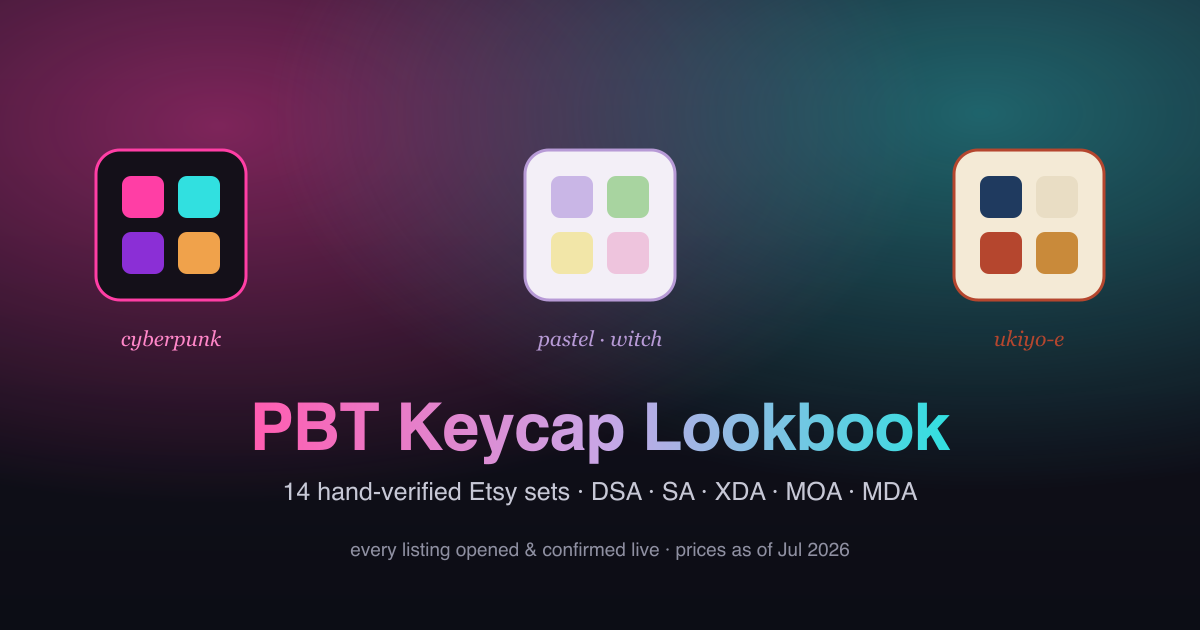
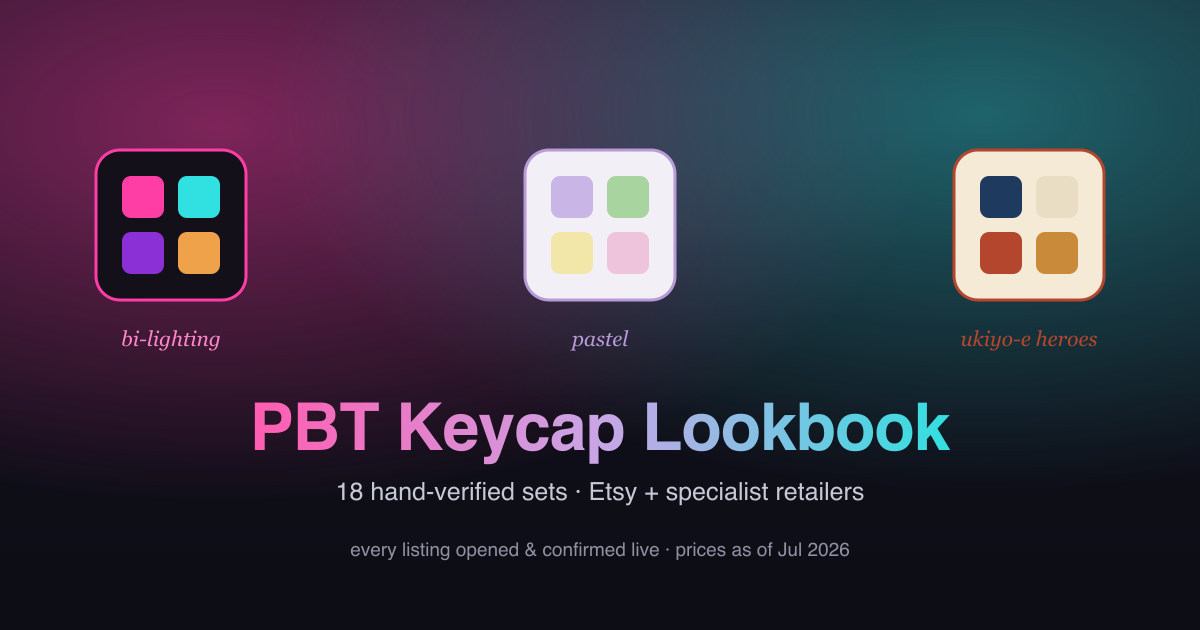
Round 2: re-point buckets to bi-lighting + Ukiyo-e Heroes game-IP; more YuniKeyCo
- Cyberpunk -> 'Bi-Lighting & Neon-Noir': lead with flat-profile violet/pink picks;
  Keysium Neon Abyss + Keychron Neon Night as pure-palette near-misses.
- Ukiyo-e -> 'Ukiyo-e Heroes': game-IP art (Mario/Pokemon/Kirby/Totoro) + woodblock
  (KAT Great Wave/Fuji/painting). Re-included QuantumCaps Pokemon.
- Pastel: added YuniKeyCo Rainbow Gradient (lavender's sibling), Sakura, Ocean;
  dropped Cinnamoroll/Marshmallow. Now 8.
- 18 sets total; source-aware near-miss links; regenerated OG.

diff --git a/index.html b/index.html
@@ -3,7 +3,7 @@
 <head>
 <meta charset="utf-8" />
 <meta name="viewport" content="width=device-width, initial-scale=1.0" />
-<title>PBT Keycap Lookbook — Cyberpunk · Pastel-Witch · Ukiyo-e</title>
+<title>PBT Keycap Lookbook — Bi-Lighting · Pastel · Ukiyo-e Heroes</title>
 <meta name="description" content="A curated Etsy lookbook of PBT, DSA/SA/XDA/MOA-family keycap sets in three aesthetics: cyberpunk / synthwave / Blade Runner, pastel / mintlodify / cottagecore-witch, and ukiyo-e woodblock. Every listing verified live, with prices, profiles, and materials." />
 <meta name="robots" content="index,follow" />
 
@@ -11,14 +11,14 @@
 
 <meta property="og:type" content="website" />
 <meta property="og:site_name" content="PBT Keycap Lookbook" />
-<meta property="og:title" content="PBT Keycap Lookbook — Cyberpunk · Pastel-Witch · Ukiyo-e" />
+<meta property="og:title" content="PBT Keycap Lookbook — Bi-Lighting · Pastel · Ukiyo-e Heroes" />
 <meta property="og:description" content="Curated Etsy PBT keycap sets (DSA/SA/XDA/MOA family) across three aesthetics. Every listing verified live with prices, profiles and materials." />
 <meta property="og:url" content="https://drewhoover.com/keycap-lookbook/" />
 <meta property="og:image" content="https://drewhoover.com/keycap-lookbook/og.png" />
 <meta property="og:image:width" content="1200" />
 <meta property="og:image:height" content="630" />
 <meta name="twitter:card" content="summary_large_image" />
-<meta name="twitter:title" content="PBT Keycap Lookbook — Cyberpunk · Pastel-Witch · Ukiyo-e" />
+<meta name="twitter:title" content="PBT Keycap Lookbook — Bi-Lighting · Pastel · Ukiyo-e Heroes" />
 <meta name="twitter:description" content="Curated Etsy PBT keycap sets across three aesthetics, every listing verified live." />
 <meta name="twitter:image" content="https://drewhoover.com/keycap-lookbook/og.png" />
 
@@ -195,9 +195,9 @@
     <p class="sub">A hand-verified shortlist of PBT keycap sets in the flat &amp; uniform profile family (DSA / SA / XDA / MOA / MDA / KAT), sorted into three aesthetics — sourced from Etsy <em>and</em> specialist keycap retailers. Every listing below was opened and confirmed live.</p>
     <div class="counts" id="counts"></div>
     <nav class="navjump">
-      <a class="j-cyber" href="#cyberpunk">◤ Cyberpunk / Synthwave</a>
+      <a class="j-cyber" href="#cyberpunk">◤ Cyberpunk / Bi-Lighting</a>
       <a class="j-pastel" href="#pastel">✿ Pastel / Witch</a>
-      <a class="j-ukiyo" href="#ukiyoe">波 Ukiyo-e</a>
+      <a class="j-ukiyo" href="#ukiyoe">波 Ukiyo-e Heroes</a>
     </nav>
   </div>
 </header>
@@ -208,7 +208,7 @@
     <ul>
       <li><b>Material:</b> PBT only — doubleshot or dye-sublimation. Anything ABS (or unstated) was dropped.</li>
       <li><b>Profile:</b> the flat / uniform / tall-sculpted family only — <code>DSA</code>, <code>SA</code>, <code>XDA</code>, <code>MOA</code>, <code>MDA</code>, <code>KAT</code>. Standard <code>Cherry</code>/<code>OEM</code> sculpts were excluded from the main picks (a few exceptional ones appear in the labelled “near-miss” rows). Profile is called out on every card.</li>
-      <li><b>Where from:</b> mostly Etsy, plus a few from specialist retailers (KeyCapUS, prototypist) where Etsy came up short. The button says where each one lives.</li>
+      <li><b>Where from:</b> Etsy plus specialist retailers (PopKeyCap, KeyArtisan, KeyCapUS, prototypist, Keysium…) where they had the better set. Each buy button says where that one lives.</li>
       <li><b>Design:</b> genuinely on-theme for its bucket — no generic “Japanese” or “gamer RGB” filler.</li>
       <li><b>Live check:</b> each listing was opened in a browser; dead, sold-out and “item unavailable” listings were removed.</li>
     </ul>
@@ -221,14 +221,14 @@
   <div class="wrap">
     <div class="sec-head">
       <div class="eyebrow">Bucket 01</div>
-      <h2>Cyberpunk · Synthwave · Blade Runner</h2>
-      <p>Neon-on-dark, hot magenta and electric cyan, orange-on-teal dystopia, outrun gradients. The hard truth of this bucket: tasteful neon-synthwave in a flat profile barely exists in PBT — the look lives almost entirely in Cherry-profile GMK-clones, which the rule excludes. What survives is small but honest: a Blade-Runner-orange gradient, a neon-purple/cyan set, a translucent-black SA set, and — going beyond Etsy — a genuinely good charcoal/violet XDA set from KeyCapUS. Two Cherry/backlit near-misses are shown below too.</p>
+      <h2>Cyberpunk · Bi-Lighting &amp; Neon-Noir</h2>
+      <p>The 2018 “bisexual lighting” wash — soft-but-saturated pink and magenta into purple into electric blue, romantic neon dusk (Atomic Blonde, San Junipero, John Wick). The catch: that exact pink/purple/blue palette lives almost entirely in Cherry-profile sets, which the flat-profile rule excludes. So the main grid holds the closest flat-profile picks — a charcoal/violet XDA, a violet/cyan MDA, a warm Blade-Runner-orange gradient — and the near-miss row below is where the pure bi-lighting sets live. Start with <b>Neon Abyss</b>.</p>
       <div class="n" id="n-cyberpunk"></div>
     </div>
     <div class="grid" data-bucket="cyberpunk"></div>
     <div class="nearmiss" data-nearmiss="cyberpunk">
       <h4>Near misses — right vibe, outside the flat-profile spec</h4>
-      <p class="why">These nail the neon-noir look but are Cherry profile or have an unlisted/backlit profile, so they sit outside the strict rule. Shown for completeness.</p>
+      <p class="why">The pure pink / purple / blue bi-lighting palette — but Cherry profile, so outside the flat-profile rule. If you’ll accept a sculpted profile, these are the truest match to the vibe you described.</p>
       <div class="nmgrid"></div>
     </div>
   </div>
@@ -240,7 +240,7 @@
     <div class="sec-head">
       <div class="eyebrow">Bucket 02</div>
       <h2>Pastel · Mintlodify · Cottagecore-Witch</h2>
-      <p>Soft sage, matcha, lavender and butter-yellow; botanical and celestial motifs — herbs, moons, stars, constellations. This is the deep bucket: uniform XDA and MOA sets in gentle, low-contrast palettes that sit right next to the mintlodify / casidoo world. From a literal cottagecore-witch herb set to a zodiac constellation board.</p>
+      <p>Soft sage, matcha, lavender and butter-yellow; gentle gradients and botanical / celestial motifs. The deep bucket — led by <b>YuniKeyCo</b>, whose clean gradient-minimalist MOA sets (the lavender you loved, plus its rainbow, sakura and ocean siblings) anchor it, alongside the simple two-tone matcha and a zodiac constellation board.</p>
       <div class="n" id="n-pastel"></div>
     </div>
     <div class="grid" data-bucket="pastel"></div>
@@ -257,14 +257,14 @@
   <div class="wrap">
     <div class="sec-head">
       <div class="eyebrow">Bucket 03</div>
-      <h2>Ukiyo-e · Japanese Woodblock</h2>
-      <p>Genuine woodblock-print aesthetic — Hokusai waves, Mount Fuji, cranes and junks in indigo, ochre, vermilion and off-white (the Jed Henry / Ukiyo-e Heroes palette). Not “anything Japanese”: cute-Pokémon and anime sets were rejected. The catch mirrors cyberpunk — most true woodblock sets are Cherry/OEM; the flat-profile survivors are a tight MOA cluster on Etsy, crowned by the off-Etsy <b>KAT Great Wave</b> (aizuri-e indigo, the gold standard). All beautiful.</p>
+      <h2>Ukiyo-e Heroes · Game-Art &amp; Woodblock</h2>
+      <p>Named for Jed Henry’s series, this bucket is about <b>interesting artistic takes on the same IPs</b> he reimagines — Mario, Pokémon, Kirby, Studio Ghibli — plus the woodblock elements that inspired them. So it runs from a pixel-art Mario and a pink Kirby gradient to a genuine aizuri-e Great Wave and painterly sumi-e landscapes. The art and the character are the point; flat / uniform profile and PBT throughout.</p>
       <div class="n" id="n-ukiyoe"></div>
     </div>
     <div class="grid" data-bucket="ukiyoe"></div>
     <div class="nearmiss" data-nearmiss="ukiyoe">
       <h4>Near misses — worth knowing about</h4>
-      <p class="why">The iconic Great Wave set (Cherry + RGB shine-through) and a spec-perfect MOA Pokémon set whose art is cute sprites rather than woodblock.</p>
+      <p class="why">The single most iconic ukiyo-e image — if you’ll take Cherry profile.</p>
       <div class="nmgrid"></div>
     </div>
   </div>
@@ -282,11 +282,14 @@
       <a href="https://www.etsy.com/shop/KeysCreationns" target="_blank" rel="noopener">KeysCreationns</a>
       <a href="https://www.etsy.com/shop/AstroKaps" target="_blank" rel="noopener">AstroKaps</a>
       <a href="https://www.etsy.com/shop/NoisyCaps" target="_blank" rel="noopener">NoisyCaps</a>
+      <a href="https://popkeycap.com" target="_blank" rel="noopener">PopKeyCap ↗</a>
+      <a href="https://keyartisan.net" target="_blank" rel="noopener">KeyArtisan ↗</a>
       <a href="https://keycapus.com" target="_blank" rel="noopener">KeyCapUS ↗</a>
       <a href="https://prototypist.net" target="_blank" rel="noopener">prototypist ↗</a>
+      <a href="https://keysium.com" target="_blank" rel="noopener">Keysium ↗</a>
     </div>
     <p class="fine">
-      <b>PixelKeys</b> is the single best Etsy source — a huge, consistently-live catalogue of XDA and MOA PBT sets across every theme (it shows up in all three buckets). <b>Capsora</b> and <b>YuniKeyCo</b> are the go-to for MOA Japanese-woodblock and pastel-gradient sets; <b>KeyArtisann / KeyArtisanUS</b> carry the widest XDA/MDA themed range (though many are Cherry-only — check the profile before buying). <b>AdventureKeycaps</b> made the celestial constellation set, and <b>KeysCreationns</b> the painterly woodblock landscape. Off Etsy, <b>KeyCapUS</b> is a cheap source of flat-profile XDA dye-sub, and <b>prototypist</b> (reselling Keyreative’s KAT sets) is where the Great Wave lives.<br><br>
+      <b>YuniKeyCo</b> is the star of the pastel bucket — clean gradient-minimalist and soft-illustrative MOA sets (lavender, rainbow, sakura, ocean). <b>PixelKeys</b> is the deepest Etsy catalogue of XDA/MOA PBT across every theme. For game-IP art, <b>PopKeyCap</b> designs restrained sets (the Mario), <b>KeyArtisan</b> does cute illustrated ones with flat-profile options (the Kirby), and <b>KeycapsCustom</b> covers Ghibli / Zelda. Off Etsy for the neon: <b>Keysium</b> has a deep bi-lighting catalogue (Neon Abyss, Kabukicho, Retrowave), <b>KeyCapUS</b> is the cheap flat-profile XDA source, and <b>prototypist</b> resells Keyreative’s KAT Great Wave.<br><br>
       This is an independent, non-commercial reference — no affiliate links, no trackers, nothing sponsored. Verified and priced on 4 July 2026. Availability and pricing drift constantly; treat every figure as “as of that date.”
     </p>
   </div>
@@ -299,106 +302,115 @@
 <script>
 /* ---- Data (all listings opened & verified live on 2026-07-04) ---- */
 const SETS = [
-  // ===== CYBERPUNK =====
-  { bucket:"cyberpunk", id:"1865650805",
-    title:"Orange &amp; Black Gradient — “Autumn Sunset”",
-    shop:"PixelKeys", price:"67.00", profile:"MOA", material:"PBT dye-sub", keys:"121 keys", compat:"Full-size + TKL",
-    note:"A clean charcoal-to-rust gradient on black — the closest thing to a Blade&nbsp;Runner&nbsp;2049 / Atomic&nbsp;Blonde orange-on-dark palette in a uniform profile. Tasteful, not RGB.",
-    imgs:["https://i.etsystatic.com/42363382/r/il/2f1137/6843041917/il_fullxfull.6843041917_kanc.jpg","https://i.etsystatic.com/42363382/r/il/f7a834/6843041913/il_fullxfull.6843041913_5p5d.jpg","https://i.etsystatic.com/42363382/r/il/2dce89/6795036056/il_fullxfull.6795036056_ta5q.jpg"] },
-  { bucket:"cyberpunk", id:"1902844655",
-    title:"Purple Neon “Cool Gaming” Set",
-    shop:"KeyArtisann", price:"79.36", profile:"MDA", material:"PBT dye-sub", keys:"140 pcs", compat:"ANSI / ISO · Purple/Red/Blue variants",
-    note:"Neon violet + cyan with sci-fi glyph legends on a uniform MDA sculpt — the synthwave-purple end of the bucket. Reads designed rather than gamer-pudding.",
-    imgs:["https://i.etsystatic.com/58612526/r/il/de1a33/6790392510/il_fullxfull.6790392510_cttu.jpg","https://i.etsystatic.com/58612526/r/il/d19f63/6790392508/il_fullxfull.6790392508_b9ay.jpg","https://i.etsystatic.com/58612526/r/il/929887/6790392496/il_fullxfull.6790392496_k9q8.jpg"] },
-  { bucket:"cyberpunk", id:"4450151010",
-    title:"Black Jade — Translucent SA Set",
-    shop:"KeycapsGood", price:"45.72", profile:"SA", material:"PBT doubleshot", keys:"140 keys", compat:"ANSI / ISO · pick the SA-white variant",
-    note:"Spec-perfect (SA + doubleshot PBT). Smoky translucent black on its own; the neon in the photo is the board’s RGB glowing through — a Ghost-in-the-Shell dark-tech look if you run backlighting.",
-    imgs:["https://i.etsystatic.com/62347630/r/il/71569e/7660495738/il_fullxfull.7660495738_exyi.jpg","https://i.etsystatic.com/62347630/r/il/81c4f5/7660495696/il_fullxfull.7660495696_pnk1.jpg","https://i.etsystatic.com/62347630/r/il/883eac/7708451751/il_fullxfull.7708451751_se6x.jpg"] },
+  // ===== CYBERPUNK · BI-LIGHTING & NEON-NOIR =====
   { bucket:"cyberpunk", via:"KeyCapUS", url:"https://keycapus.com/products/xda-dye-sub-pbt-keycap-set-cyberpunk", shopUrl:"https://keycapus.com/products/xda-dye-sub-pbt-keycap-set-cyberpunk",
     title:"Cyberpunk — XDA Dye-Sub",
     shop:"KeyCapUS", price:"39.99", profile:"XDA", material:"PBT dye-sub", keys:"128 keys", compat:"60% – full-size",
-    note:"Found off-Etsy: a charcoal-and-violet board with restrained neon-pink accent legends and small circuit motifs — tasteful dark-cyber, not RGB pudding. Uniform XDA, dye-sub PBT, and cheap.",
+    note:"The flat-profile way into the bi-lighting wash: a charcoal-and-violet board with restrained neon-pink accent legends and small circuit motifs. Uniform XDA, dye-sub PBT, and cheap.",
     imgs:["https://cdn.shopify.com/s/files/1/0837/7827/3591/files/keycapus_240105_d1.jpg","https://cdn.shopify.com/s/files/1/0837/7827/3591/files/keycapus_240105_d2.jpg","https://cdn.shopify.com/s/files/1/0837/7827/3591/files/keycapus_240105_d3.jpg"] },
+  { bucket:"cyberpunk", id:"1902844655",
+    title:"Purple Neon — Violet + Cyan",
+    shop:"KeyArtisann", price:"79.36", profile:"MDA", material:"PBT dye-sub", keys:"140 pcs", compat:"ANSI / ISO · Purple/Red/Blue variants",
+    note:"Neon violet + cyan with sci-fi glyph legends on a uniform MDA sculpt — the purple/cyan slice of the bi-lighting palette in a flat profile. Reads designed, not gamer-pudding.",
+    imgs:["https://i.etsystatic.com/58612526/r/il/de1a33/6790392510/il_fullxfull.6790392510_cttu.jpg","https://i.etsystatic.com/58612526/r/il/d19f63/6790392508/il_fullxfull.6790392508_b9ay.jpg","https://i.etsystatic.com/58612526/r/il/929887/6790392496/il_fullxfull.6790392496_k9q8.jpg"] },
+  { bucket:"cyberpunk", id:"1865650805",
+    title:"Orange &amp; Black Gradient — “Autumn Sunset”",
+    shop:"PixelKeys", price:"67.00", profile:"MOA", material:"PBT dye-sub", keys:"121 keys", compat:"Full-size + TKL",
+    note:"The warm end of neon-noir: a clean charcoal-to-rust gradient — Blade&nbsp;Runner&nbsp;2049 / Atomic&nbsp;Blonde orange-on-dark in a uniform profile. Tasteful, not RGB.",
+    imgs:["https://i.etsystatic.com/42363382/r/il/2f1137/6843041917/il_fullxfull.6843041917_kanc.jpg","https://i.etsystatic.com/42363382/r/il/f7a834/6843041913/il_fullxfull.6843041913_5p5d.jpg","https://i.etsystatic.com/42363382/r/il/2dce89/6795036056/il_fullxfull.6795036056_ta5q.jpg"] },
 
   // ===== PASTEL =====
-  { bucket:"pastel", id:"4522757570",
-    title:"Space Constellation — Zodiac / Celestial",
-    shop:"AdventureKeycaps", price:"70.20", profile:"XDA", material:"PBT dye-sub", keys:"132 keys", compat:"MX · XDA (OEM also offered)",
-    note:"Deep indigo + pastel pink/butter caps with gold moons, stars, planets and zodiac glyphs. The clearest cottagecore-witch / celestial pick in the whole list.",
-    imgs:["https://i.etsystatic.com/64531893/r/il/420a47/8190521011/il_fullxfull.8190521011_muzc.jpg","https://i.etsystatic.com/64531893/r/il/05bc5c/8190520993/il_fullxfull.8190520993_1gb4.jpg","https://i.etsystatic.com/64531893/r/il/3058f5/8190521211/il_fullxfull.8190521211_1nop.jpg"] },
-  { bucket:"pastel", id:"4471765364",
-    title:"Botanical Sage — Cottagecore",
-    shop:"Capsora", price:"67.07", profile:"MOA", material:"PBT dye-sub", keys:"Full-size + TKL", compat:"Choose the MOA / PBT dye-sub variant (a Cherry-ABS one also exists — avoid that)",
-    note:"Sage-green + ochre with hand-drawn herbs, leaves, a matcha whisk and little mushrooms. This is the literal cottagecore-witch aesthetic; mintlodify would approve.",
-    imgs:["https://i.etsystatic.com/64761230/r/il/ca504b/7803915700/il_fullxfull.7803915700_m8g6.jpg","https://i.etsystatic.com/64761230/r/il/f82f18/7803892144/il_fullxfull.7803892144_f95u.jpg","https://i.etsystatic.com/64761230/r/il/f13318/7851836443/il_fullxfull.7851836443_oerp.jpg"] },
-  { bucket:"pastel", id:"1458044439",
-    title:"Matcha — Two-tone Green",
-    shop:"PressKeycaps", price:"50.00", profile:"XDA", material:"PBT", keys:"EN / JP layouts", compat:"MX",
-    note:"Light matcha alphas over deeper sage modifiers — the definitive soft mint / “mintlodify” reference set in a uniform XDA sculpt. (Newer GMK-clone reseller; the palette is the draw.)",
-    imgs:["https://i.etsystatic.com/42619185/r/il/3b3350/7783223301/il_fullxfull.7783223301_p6tg.jpg","https://i.etsystatic.com/42619185/r/il/985ed8/7783223409/il_fullxfull.7783223409_n3f8.jpg","https://i.etsystatic.com/42619185/r/il/7dc295/7783223277/il_fullxfull.7783223277_q1uk.jpg"] },
   { bucket:"pastel", id:"4509656561",
     title:"Pastel Lavender Gradient",
     shop:"YuniKeyCo", price:"123.20", profile:"MOA", material:"PBT", keys:"120 keys", compat:"ANSI / ISO / TKL / full-size",
-    note:"A dreamy lilac-to-blue gradient with faint geometric line-art on a soft MOA sculpt. The most “casidoo pastel-dream” set here — pricey, but a mood.",
+    note:"The one that started it — a dreamy lilac-to-blue gradient with faint geometric line-art on a soft MOA sculpt. Clean, minimal, beautiful.",
     imgs:["https://i.etsystatic.com/63685099/r/il/ffc943/8097526997/il_fullxfull.8097526997_lmq0.jpg","https://i.etsystatic.com/63685099/r/il/d8d506/8049613946/il_fullxfull.8049613946_nevz.jpg","https://i.etsystatic.com/63685099/r/il/b8c3e6/8097526993/il_fullxfull.8097526993_qo4t.jpg"] },
+  { bucket:"pastel", id:"4480342207",
+    title:"Pastel Rainbow Gradient",
+    shop:"YuniKeyCo", price:"143.53", profile:"MOA", material:"PBT dye-sub", keys:"124 keys", compat:"ISO / ANSI",
+    note:"The lavender set’s sibling — the same clean gradient-minimalist hand from YuniKeyCo, this time a soft pastel-rainbow sweep across a cream base. Quietly gorgeous.",
+    imgs:["https://i.etsystatic.com/63685099/r/il/aba99e/8051663669/il_fullxfull.8051663669_n1lh.jpg","https://i.etsystatic.com/63685099/r/il/5e2321/7960577706/il_fullxfull.7960577706_pgsb.jpg","https://i.etsystatic.com/63685099/r/il/fb8783/8003741356/il_fullxfull.8003741356_8f33.jpg"] },
+  { bucket:"pastel", id:"1458044439",
+    title:"Matcha — Two-tone Green",
+    shop:"PressKeycaps", price:"50.00", profile:"XDA", material:"PBT", keys:"EN / JP layouts", compat:"MX",
+    note:"Light matcha alphas over deeper sage modifiers — the definitive simple-and-beautiful mint two-tone in a uniform XDA sculpt.",
+    imgs:["https://i.etsystatic.com/42619185/r/il/3b3350/7783223301/il_fullxfull.7783223301_p6tg.jpg","https://i.etsystatic.com/42619185/r/il/985ed8/7783223409/il_fullxfull.7783223409_n3f8.jpg","https://i.etsystatic.com/42619185/r/il/7dc295/7783223277/il_fullxfull.7783223277_q1uk.jpg"] },
+  { bucket:"pastel", id:"4496560061",
+    title:"Sakura — Cherry Blossom",
+    shop:"YuniKeyCo", price:"147.12", profile:"MOA", material:"PBT dye-sub", keys:"131 keys", compat:"ISO / ANSI · White / Pink",
+    note:"Cream and white with delicate pink cherry-blossom and a tiny Fuji on the spacebar — elegant and quiet. The same YuniKeyCo hand you liked.",
+    imgs:["https://i.etsystatic.com/63685099/r/il/41b732/7983212682/il_fullxfull.7983212682_9tkh.jpg","https://i.etsystatic.com/63685099/r/il/e7183a/7983298866/il_fullxfull.7983298866_7noc.jpg","https://i.etsystatic.com/63685099/r/il/10a5ee/7983310806/il_fullxfull.7983310806_br27.jpg"] },
+  { bucket:"pastel", id:"4494058988",
+    title:"Ocean — Coastal Blue",
+    shop:"YuniKeyCo", price:"119.61", profile:"MOA", material:"PBT dye-sub", keys:"120 keys", compat:"ANSI",
+    note:"Soft cornflower-blue and cream with shells, waves and a little beach on the spacebar — the same shop, a touch more illustrative. A summer companion to the lavender gradient.",
+    imgs:["https://i.etsystatic.com/63685099/r/il/46a7a4/8003655748/il_fullxfull.8003655748_abhy.jpg","https://i.etsystatic.com/63685099/r/il/682e87/7948028968/il_fullxfull.7948028968_lkkt.jpg","https://i.etsystatic.com/63685099/r/il/c974c0/7948029000/il_fullxfull.7948029000_2rrt.jpg"] },
+  { bucket:"pastel", id:"4471765364",
+    title:"Botanical Sage — Cottagecore",
+    shop:"Capsora", price:"67.07", profile:"MOA", material:"PBT dye-sub", keys:"Full-size + TKL", compat:"Choose the MOA / PBT dye-sub variant (a Cherry-ABS one also exists — avoid that)",
+    note:"Sage-green and ochre with hand-drawn herbs, a matcha whisk and little mushrooms — the literal cottagecore-witch corner.",
+    imgs:["https://i.etsystatic.com/64761230/r/il/ca504b/7803915700/il_fullxfull.7803915700_m8g6.jpg","https://i.etsystatic.com/64761230/r/il/f82f18/7803892144/il_fullxfull.7803892144_f95u.jpg","https://i.etsystatic.com/64761230/r/il/f13318/7851836443/il_fullxfull.7851836443_oerp.jpg"] },
   { bucket:"pastel", id:"1855996018",
     title:"Sunny Blue Sky",
     shop:"PixelKeys", price:"56.69", profile:"XDA", material:"PBT dye-sub", keys:"132 keys", compat:"Full-size + TKL",
-    note:"Soft butter-yellow, sage and pale-blue on a flat XDA sculpt — gentle, low-contrast and cheerful. From PixelKeys, the most reliable XDA-pastel shop on Etsy.",
+    note:"Butter-yellow, sage and pale-blue on a flat XDA sculpt — gentle, low-contrast and cheerful. From PixelKeys, the most reliable XDA-pastel shop.",
     imgs:["https://i.etsystatic.com/42363382/r/il/f73d50/6706425710/il_fullxfull.6706425710_301q.jpg","https://i.etsystatic.com/42363382/r/il/9ab8ac/6706426318/il_fullxfull.6706426318_omms.jpg","https://i.etsystatic.com/42363382/r/il/1e702a/6754467491/il_fullxfull.6754467491_ak19.jpg"] },
-  { bucket:"pastel", id:"1902853455",
-    title:"Marshmallow",
-    shop:"KeyArtisann", price:"33.06", profile:"XDA", material:"PBT dye-sub", keys:"136 pcs", compat:"ISO / ANSI · 8 language layouts",
-    note:"Cream, dusty-pink and periwinkle — a soft candy-pastel XDA set at a friendly price. Leans cute (casidoo territory) rather than botanical.",
-    imgs:["https://i.etsystatic.com/58612526/r/il/4c9c60/6790422712/il_fullxfull.6790422712_l7w0.jpg","https://i.etsystatic.com/58612526/r/il/40108d/6790418898/il_fullxfull.6790418898_phd4.jpg","https://i.etsystatic.com/58612526/r/il/940f0c/6790418892/il_fullxfull.6790418892_5li1.jpg"] },
-  { bucket:"pastel", id:"4445179205",
-    title:"Cinnamoroll — Pale Blue",
-    shop:"AstroKaps", price:"50.80", profile:"XDA", material:"PBT", keys:"129 keys", compat:"MX",
-    note:"Pale-blue-and-white XDA with Sanrio Cinnamoroll line-art on the novelties. The softest, most kawaii pick — include it for the palette; it’s a licensed-character set.",
-    imgs:["https://i.etsystatic.com/62691888/r/il/a0b9fe/7675932677/il_fullxfull.7675932677_5891.jpg","https://i.etsystatic.com/62691888/r/il/43b469/7697135383/il_fullxfull.7697135383_beyo.jpg","https://i.etsystatic.com/62691888/r/il/13a921/7675932923/il_fullxfull.7675932923_od20.jpg"] },
+  { bucket:"pastel", id:"4522757570",
+    title:"Space Constellation — Zodiac / Celestial",
+    shop:"AdventureKeycaps", price:"70.20", profile:"XDA", material:"PBT dye-sub", keys:"132 keys", compat:"MX · XDA (OEM also offered)",
+    note:"Deep indigo and pastel caps with gold moons, stars, planets and zodiac glyphs — the celestial-witch corner of the pastel world.",
+    imgs:["https://i.etsystatic.com/64531893/r/il/420a47/8190521011/il_fullxfull.8190521011_muzc.jpg","https://i.etsystatic.com/64531893/r/il/05bc5c/8190520993/il_fullxfull.8190520993_1gb4.jpg","https://i.etsystatic.com/64531893/r/il/3058f5/8190521211/il_fullxfull.8190521211_1nop.jpg"] },
 
-  // ===== UKIYO-E =====
-  { bucket:"ukiyoe", id:"4496547435",
-    title:"Sakura · Mount Fuji · Great Wave",
-    shop:"YuniKeyCo", price:"144.73", profile:"MOA", material:"PBT dye-sub", keys:"132 keys", compat:"ISO / ANSI",
-    note:"Indigo-and-cream woodblock scenes — Fuji, cherry blossom and a Hokusai-style wave wrapping the spacebar row. The most complete ukiyo-e statement here (and priced like it).",
-    imgs:["https://i.etsystatic.com/63685099/r/il/49728f/7989419906/il_fullxfull.7989419906_8x95.jpg","https://i.etsystatic.com/63685099/r/il/714f55/7964777398/il_fullxfull.7964777398_5rpu.jpg","https://i.etsystatic.com/63685099/r/il/e366f5/7964777388/il_fullxfull.7964777388_g5cp.jpg"] },
-  { bucket:"ukiyoe", id:"4469807889",
-    title:"Brown Japanese Painting — Landscape",
-    shop:"KeysCreationns", price:"135.00", profile:"MOA", material:"PBT dye-sub", keys:"140 keys", compat:"MX",
-    note:"Sumi-e / woodblock mountains, waves and a red torii across warm brown and cream. Painterly and genuinely ukiyo-e; the richest artwork in the bucket.",
-    imgs:["https://i.etsystatic.com/60077663/r/il/3d5ec0/7838991119/il_fullxfull.7838991119_g1j7.jpg","https://i.etsystatic.com/60077663/r/il/94184f/7838991135/il_fullxfull.7838991135_fup7.jpg","https://i.etsystatic.com/60077663/r/il/a71186/7791060728/il_fullxfull.7791060728_ntkk.jpg"] },
-  { bucket:"ukiyoe", id:"4468206734",
-    title:"Mount Fuji Theme",
-    shop:"Capsora", price:"67.07", profile:"MOA", material:"PBT dye-sub", keys:"140 keys", compat:"Blue / Brown-Japanese / Brown-Chinese variants",
-    note:"Cream caps with indigo-and-red woodblock vignettes — Fuji, junks, cranes and waves. The best value in the bucket, and the palette is spot-on (indigo / vermilion / off-white).",
-    imgs:["https://i.etsystatic.com/64761230/r/il/dc2aec/7780685292/il_fullxfull.7780685292_kbh5.jpg","https://i.etsystatic.com/64761230/r/il/7180ec/7780550340/il_fullxfull.7780550340_c3j6.jpg","https://i.etsystatic.com/64761230/r/il/d92dbb/7828478281/il_fullxfull.7828478281_r0i4.jpg"] },
-  { bucket:"ukiyoe", id:"1873178717",
-    title:"Black &amp; White Japan",
-    shop:"PixelKeys", price:"61.85", profile:"MOA", material:"PBT dye-sub", keys:"142 keys", compat:"EN / DE layouts · full-size + TKL",
-    note:"A quieter, ink-on-white take — minimal sumi-style Japanese motifs (koi, waves, leaves) on the novelties. Subtler than the landscape sets, uniform MOA, and easy to live with.",
-    imgs:["https://i.etsystatic.com/42363382/r/il/2fc008/6795045346/il_fullxfull.6795045346_kfmm.jpg","https://i.etsystatic.com/42363382/r/il/bf39dd/6795045342/il_fullxfull.6795045342_drg7.jpg","https://i.etsystatic.com/42363382/r/il/906f8f/6795045338/il_fullxfull.6795045338_llqt.jpg"] },
+  // ===== UKIYO-E HEROES · GAME-ART & WOODBLOCK =====
+  { bucket:"ukiyoe", via:"PopKeyCap", url:"https://popkeycap.com/products/mario-pbt-keycap-set-xda", shopUrl:"https://popkeycap.com/products/mario-pbt-keycap-set-xda",
+    title:"Super Mario — Pixel Art",
+    shop:"PopKeyCap", price:"48.00", profile:"XDA", material:"PBT dye-sub", keys:"144 keys", compat:"MX",
+    note:"An interesting take on the IP, done with restraint: clean white and burnt-orange XDA with pixel-Mario legends, a red-cap novelty and a “SUPER MARIO” spacebar.",
+    imgs:["https://cdn.shopify.com/s/files/1/0604/3841/3506/products/Acaptureonecatalog4869.jpg","https://cdn.shopify.com/s/files/1/0604/3841/3506/products/Acaptureonecatalog4866.jpg","https://cdn.shopify.com/s/files/1/0604/3841/3506/products/Acaptureonecatalog4867.jpg"] },
+  { bucket:"ukiyoe", id:"4337843099",
+    title:"Japanese Pokémon",
+    shop:"QuantumCaps", price:"55.80", profile:"MOA", material:"PBT dye-sub", keys:"132 keys", compat:"TKL / full-size",
+    note:"Cream, red and navy with cute Pokémon sprites and Japanese motifs — the Ukiyo-e-Heroes Pokémon energy in a soft MOA set. (You were right; this one’s back in.)",
+    imgs:["https://i.etsystatic.com/58011297/r/il/53cda8/7032471920/il_fullxfull.7032471920_oo8g.jpg","https://i.etsystatic.com/58011297/r/il/0bce56/7080444347/il_fullxfull.7080444347_bcjc.jpg","https://i.etsystatic.com/58011297/r/il/e6b9aa/7080444345/il_fullxfull.7080444345_3g8l.jpg"] },
+  { bucket:"ukiyoe", via:"KeyArtisan", url:"https://keyartisan.net/products/cute-pink-kirby-theme-artisan-keycap-set", shopUrl:"https://keyartisan.net/products/cute-pink-kirby-theme-artisan-keycap-set",
+    title:"Kirby — Pink Gradient",
+    shop:"KeyArtisan", price:"61.90", profile:"XDA / MOA", material:"PBT dye-sub", keys:"122 pcs", compat:"choose XDA or MOA",
+    note:"A rose-to-cream pink gradient with a Kirby face, logo and little Kirby novelties. Cute and clean; pick the XDA or MOA (flat) option.",
+    imgs:["https://cdn.shopify.com/s/files/1/0684/6962/0893/files/cute-pink-kirby-theme-artisan-keycap-set-4159062.jpg","https://cdn.shopify.com/s/files/1/0684/6962/0893/files/cute-pink-kirby-theme-artisan-keycap-set-6080187.jpg","https://cdn.shopify.com/s/files/1/0684/6962/0893/files/cute-pink-kirby-theme-artisan-keycap-set-6855653.jpg"] },
+  { bucket:"ukiyoe", via:"KeycapsCustom", url:"https://keycapscustom.com/product/totoro-keycap-set-145pcs-studio-ghibli-spirited-away-white-keycaps-xda-profile-pbt-keycaps-for-mechanical-keyboard-gaming-setup/", shopUrl:"https://keycapscustom.com/product/totoro-keycap-set-145pcs-studio-ghibli-spirited-away-white-keycaps-xda-profile-pbt-keycaps-for-mechanical-keyboard-gaming-setup/",
+    title:"Studio Ghibli — Totoro",
+    shop:"KeycapsCustom", price:"100.69", profile:"XDA", material:"PBT", keys:"145 pcs", compat:"MX",
+    note:"White and sage Ghibli set — Totoro, Soot Sprites, No-Face, Kodama and a “となりのトトロ” spacebar. The Ghibli side of the Ukiyo-e-Heroes world.",
+    imgs:["https://keycapscustom.com/wp-content/uploads/2024/04/Totoro-Keycap-Set-145.jpg"] },
   { bucket:"ukiyoe", via:"prototypist", url:"https://prototypist.net/products/in-stock-kat-great-wave-keycaps", shopUrl:"https://prototypist.net/products/in-stock-kat-great-wave-keycaps",
-    title:"KAT Great Wave — Aizuri-e",
+    title:"KAT Great Wave — Aizuri-e (woodblock)",
     shop:"Keyreative", price:"55.00", profile:"KAT", material:"PBT dye-sub", keys:"base kit + kits", compat:"from $55 base kit · ANSI/ISO",
-    note:"The off-Etsy gold standard. Keyreative's KAT Great Wave in aizuri-e (indigo blue-print) — a Hokusai wave gradient from deep navy to ice-white with seigaiha wave glyphs on the mods. Uniform KAT sculpt, dye-sub PBT. In stock at prototypist.",
+    note:"The woodblock gold standard: Keyreative’s KAT Great Wave in aizuri-e indigo — a Hokusai wave from deep navy to ice-white with seigaiha glyphs on the mods. Uniform KAT sculpt, dye-sub PBT.",
     imgs:["https://cdn.shopify.com/s/files/1/0252/3958/4834/files/BaseKit_85d16cae-27dd-44de-934b-f4cff4e7dbda.png","https://cdn.shopify.com/s/files/1/0252/3958/4834/files/Novelties_1d6c2ce0-f98d-4bb1-8cfc-eb10fe0e357e.jpg"] },
+  { bucket:"ukiyoe", id:"4468206734",
+    title:"Mount Fuji (woodblock)",
+    shop:"Capsora", price:"67.07", profile:"MOA", material:"PBT dye-sub", keys:"140 keys", compat:"Blue / Brown-Japanese / Brown-Chinese",
+    note:"Cream caps with indigo-and-red woodblock vignettes — Fuji, junks, cranes and waves. Best value in the woodblock corner; indigo / vermilion / off-white palette.",
+    imgs:["https://i.etsystatic.com/64761230/r/il/dc2aec/7780685292/il_fullxfull.7780685292_kbh5.jpg","https://i.etsystatic.com/64761230/r/il/7180ec/7780550340/il_fullxfull.7780550340_c3j6.jpg","https://i.etsystatic.com/64761230/r/il/d92dbb/7828478281/il_fullxfull.7828478281_r0i4.jpg"] },
+  { bucket:"ukiyoe", id:"4469807889",
+    title:"Brown Japanese Painting (woodblock)",
+    shop:"KeysCreationns", price:"135.00", profile:"MOA", material:"PBT dye-sub", keys:"140 keys", compat:"MX",
+    note:"Sumi-e mountains, waves and a red torii across warm brown and cream — the most painterly woodblock set here.",
+    imgs:["https://i.etsystatic.com/60077663/r/il/3d5ec0/7838991119/il_fullxfull.7838991119_g1j7.jpg","https://i.etsystatic.com/60077663/r/il/94184f/7838991135/il_fullxfull.7838991135_fup7.jpg","https://i.etsystatic.com/60077663/r/il/a71186/7791060728/il_fullxfull.7791060728_ntkk.jpg"] },
 ];
 
 const NEARMISS = [
-  { bucket:"cyberpunk", id:"1874740809", title:"Neon Cyberpunk (PixelKeys)", why:"Textbook magenta/cyan neon-noir — but Cherry profile, so outside the flat-profile rule.",
-    img:"https://i.etsystatic.com/42363382/r/il/3049b8/6997648263/il_fullxfull.6997648263_ibta.jpg" },
-  { bucket:"cyberpunk", id:"4417977665", title:"Ashen Sky Green (MetalandMatrix)", why:"Great industrial-cyber look (toxic-lime + tactical legends) — but it’s a backlit shine-through set and the profile isn’t stated.",
-    img:"https://i.etsystatic.com/63044504/r/il/629aeb/7522002579/il_fullxfull.7522002579_b9kk.jpg" },
+  { bucket:"cyberpunk", via:"Keysium", url:"https://keysium.com/product/neon-abyss-keycaps-set-blue-pink-purple-cyberpunk-cherry-pbt/", title:"Neon Abyss — Blue / Pink / Purple (Keysium)", why:"The purest bi-lighting set I found: indigo caps, lavender + ice-blue gradient rows, pink accent legends. PBT dye-sub ($85) — but Cherry profile, so outside the flat-profile rule. If you’ll take Cherry, this is THE one.",
+    img:"https://keysium.com/wp-content/uploads/2024/12/Neon-Abyss-Keycaps-Set-Blue-Pink-Purple-Cyberpunk-Cherry-PBT-Keysium-1.webp" },
+  { bucket:"cyberpunk", via:"Keychron", url:"https://www.keychron.com/products/neon-night-cherry-profile-dye-sub-pbt-full-keycap-set", title:"Neon Night (Keychron)", why:"Black base with pink/purple/green neon legends — the same 2018 dusk palette for $39.99. Cherry profile, PBT dye-sub.",
+    img:"https://cdn.shopify.com/s/files/1/0059/0630/1017/files/Neon-Night-Cherry-Profile-Dye-sub-PBT-keycap-set-new.jpg" },
   { bucket:"ukiyoe", id:"4296632032", title:"Great Wave of Kanagawa (CapCultureStudio)", why:"The single most iconic ukiyo-e image — but Cherry profile with RGB shine-through legends.",
     img:"https://i.etsystatic.com/39986370/r/il/8d3108/7099816293/il_fullxfull.7099816293_atn5.jpg" },
-  { bucket:"ukiyoe", id:"4337843099", title:"Japanese Pokémon MOA (QuantumCaps)", why:"Spec-perfect (MOA + PBT dye-sub) and charming — but the art is cute Pokémon sprites, not woodblock, so it isn’t the Ukiyo-e Heroes look.",
-    img:"https://i.etsystatic.com/58011297/r/il/53cda8/7032471920/il_fullxfull.7032471920_oo8g.jpg" },
 ];
 
 /* ---- Render ---- */
-const disp = u => u.replace("il_fullxfull.", "il_794xN.");
+const disp = u => u.includes("il_fullxfull.") ? u.replace("il_fullxfull.","il_794xN.")
+  : (u.includes("cdn.shopify.com") ? u + (u.includes("?")?"&":"?") + "width=820" : u);
 const etsy = id => "https://www.etsy.com/listing/" + id + "/";
 const shopUrl = s => "https://www.etsy.com/shop/" + s;
 const cartSvg = '<svg viewBox="0 0 24 24" fill="none" stroke="currentColor" stroke-width="2.2" stroke-linecap="round" stroke-linejoin="round"><path d="M5 12h14M13 6l6 6-6 6"/></svg>';
@@ -451,13 +463,13 @@ function nmcard(n){
     <div class="nb">
       <h5>${n.title}</h5>
       <div class="nmnote">${n.why}</div>
-      <a class="nml" href="${etsy(n.id)}" target="_blank" rel="noopener">View on Etsy →</a>
+      <a class="nml" href="${n.url || etsy(n.id)}" target="_blank" rel="noopener">View ${n.via && n.via!=="Etsy" ? "at "+n.via : "on Etsy"} →</a>
     </div>`;
   return el;
 }
 
 const buckets = ["cyberpunk","pastel","ukiyoe"];
-const labels = { cyberpunk:"Cyberpunk", pastel:"Pastel-Witch", ukiyoe:"Ukiyo-e" };
+const labels = { cyberpunk:"Cyberpunk", pastel:"Pastel", ukiyoe:"Ukiyo-e Heroes" };
 buckets.forEach(b=>{
   const grid = document.querySelector(`.grid[data-bucket="${b}"]`);
   const items = SETS.filter(s=>s.bucket===b);